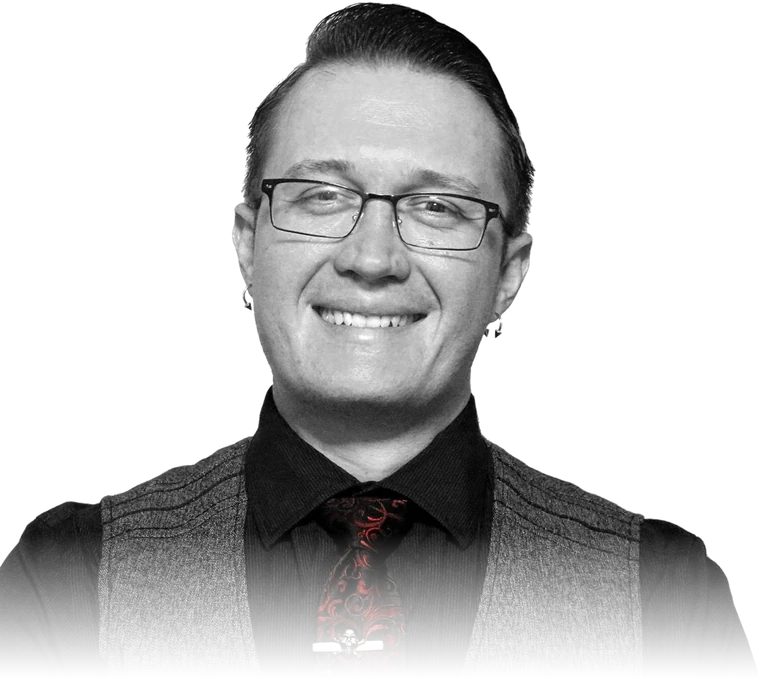
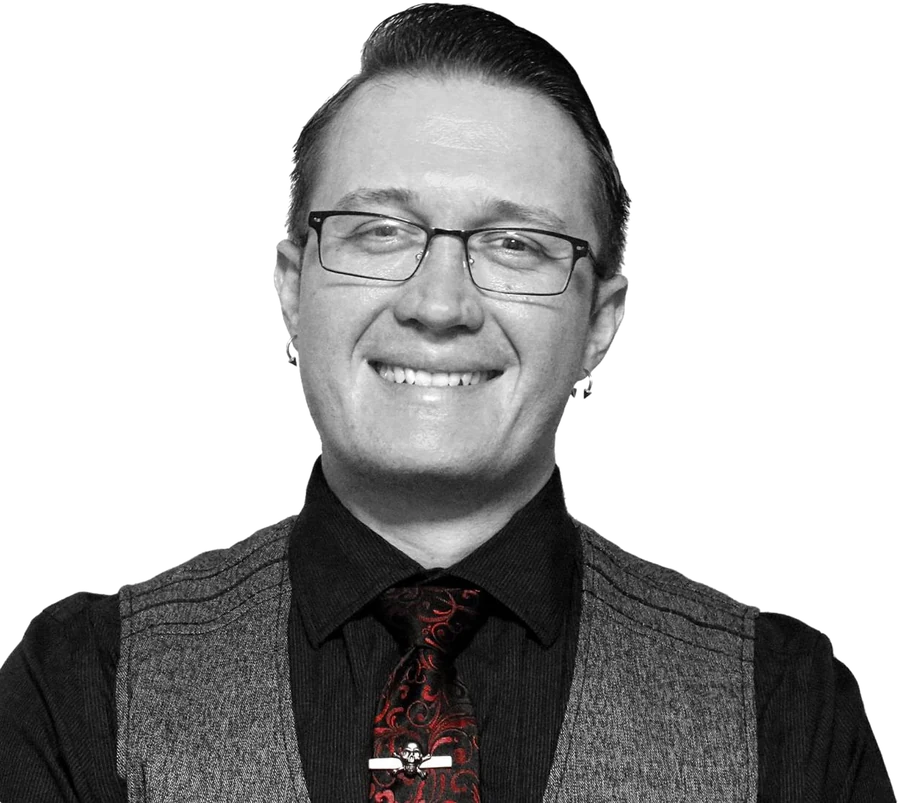
Portrait: no fade, larger, resting on hero rule

diff --git a/index.html b/index.html
@@ -8,7 +8,7 @@
   <link rel="preconnect" href="https://fonts.googleapis.com">
   <link rel="preconnect" href="https://fonts.gstatic.com" crossorigin>
   <link rel="stylesheet" href="https://fonts.googleapis.com/css2?family=Archivo:wght@400;500;700;900&display=swap">
-  <link rel="stylesheet" href="assets/site.css?v=202610162216">
+  <link rel="stylesheet" href="assets/site.css?v=202610162234">
 </head>
 <body>
 <a class="skip" href="#gallery">Skip to work</a>
@@ -27,7 +27,7 @@
   <section class="hero">
     <div class="hero-main">
       <h1 class="hero-name">Gregory<br>Palinkas</h1>
-      <img class="portrait" src="assets/img/portrait.webp" alt="Gregory Palinkas" width="760" height="678">
+      <img class="portrait" src="assets/img/portrait.webp" alt="Gregory Palinkas" width="900" height="803">
       <div class="intro-row">
         <p class="intro">Hi, I'm Greg! I get to make things look real for a living, and I still love it. Over 25 years that's meant golf courses and stadiums for EA Sports, tracks and key art for NASCAR Heat, and these days, datacenter hardware for Legrand. My favorite part? Building the pipelines and tools behind the pictures, so a small team can do big things without the grind.</p>
       </div>
@@ -211,7 +211,7 @@
   <figure><div id="lbMedia"></div><figcaption id="lbCap"></figcaption></figure>
 </dialog>
 
-<script src="assets/diagrams.js?v=202610162216" defer></script>
-<script src="assets/site.js?v=202610162216" defer></script>
+<script src="assets/diagrams.js?v=202610162234" defer></script>
+<script src="assets/site.js?v=202610162234" defer></script>
 </body>
 </html>

diff --git a/assets/site.css b/assets/site.css
@@ -197,15 +197,15 @@ dialog figcaption b { font-weight: 900; text-transform: uppercase; letter-spacin
   .email { font-size: calc((100vw - 40px) / 11.2); white-space: nowrap; overflow-wrap: normal; }
 }
 
-/* Floating portrait (cut-out, bottom fades into the ground) */
+/* Cut-out portrait: right of the name, flat bottom resting on the hero's bottom rule */
 .portrait { display: block; height: auto; }
 @media (min-width: 761px) {
-  .hero-main { display: grid; container-type: inline-size; grid-template-columns: minmax(0, 1fr) clamp(200px, 26%, 440px); grid-template-rows: auto 1fr; column-gap: 32px; row-gap: 40px; }
+  .hero-main { display: grid; container-type: inline-size; grid-template-columns: minmax(0, 1fr) clamp(200px, 30%, 480px); grid-template-rows: auto 1fr; column-gap: 32px; row-gap: 40px; }
   /* name sized to the column left of the portrait: Archivo 900 GREGORY/PALINKAS = 5.08em, +4% margin */
-  .hero-name { grid-column: 1; grid-row: 1; font-size: min(192px, calc((100cqw - clamp(200px, 26cqw, 440px) - 32px) / 5.3)); }
+  .hero-name { grid-column: 1; grid-row: 1; font-size: min(192px, calc((100cqw - clamp(200px, 30cqw, 480px) - 32px) / 5.3)); }
   .intro-row { grid-column: 1; grid-row: 2; align-self: end; }
-  .portrait { grid-column: 2; grid-row: 1 / span 2; align-self: center; width: 100%; }
+  .portrait { grid-column: 2; grid-row: 1 / span 2; align-self: end; width: 100%; margin-bottom: -40px; }
 }
 @media (max-width: 760px) {
-  .portrait { width: min(240px, 70%); margin: -8px 0 -16px; }
+  .portrait { width: min(360px, 100%); margin: 8px 0 0; }
 }
